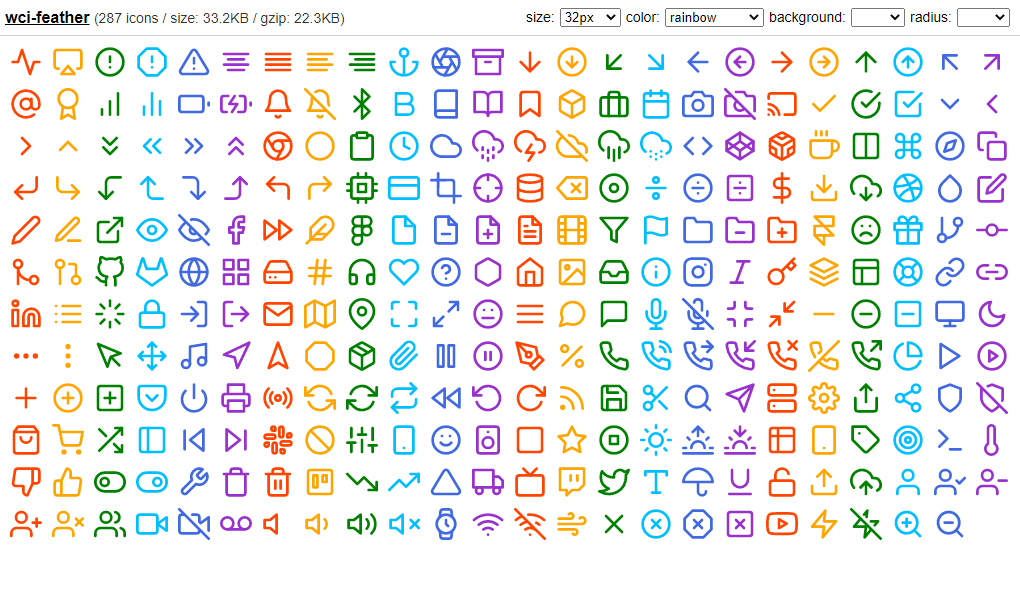
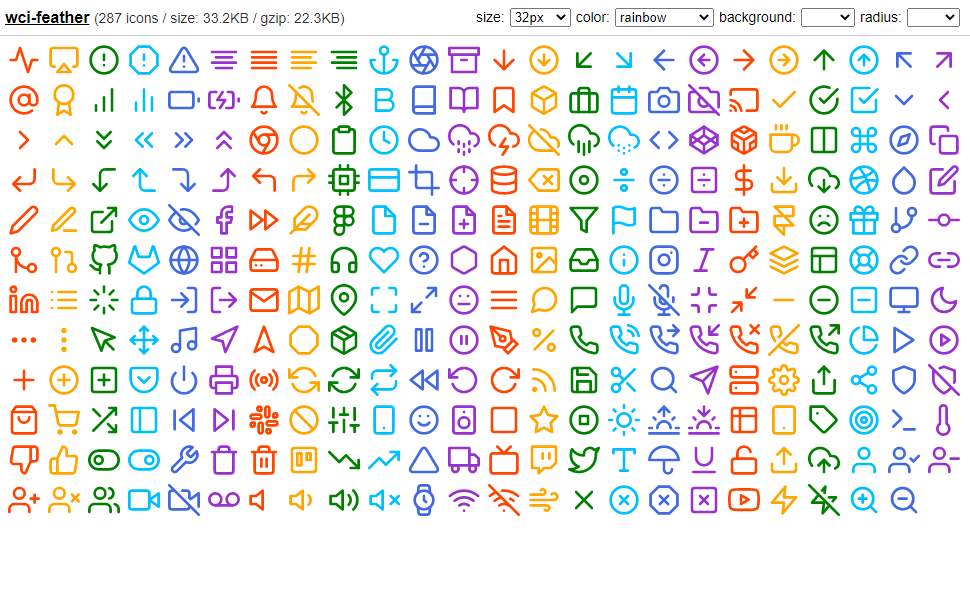
fix screenshot

Changed region(s): [[0.0, 0.0, 1.0, 0.9153]]

diff --git a/conf.cli.js b/conf.cli.js
@@ -172,8 +172,8 @@ module.exports = {
             });
             const page = await browser.newPage();
             await page.setViewportSize({
-                width: 1020,
-                height: 590
+                width: 970,
+                height: 600
             });
 
             const previewUrl = path.resolve(item.previewPath, 'index.html');

diff --git a/packages/ant/preview/index.html b/packages/ant/preview/index.html
@@ -57,7 +57,7 @@
         }
 
         .preview-container {
-            padding: 5px;
+            padding: 4px;
         }
 
         .preview-container::after {
@@ -67,7 +67,7 @@
         }
 
         .icon-item {
-            margin: 4px;
+            margin: 3px;
             float: left;
             border: 1px solid transparent;
         }

diff --git a/packages/awesome/preview/index.html b/packages/awesome/preview/index.html
@@ -57,7 +57,7 @@
         }
 
         .preview-container {
-            padding: 5px;
+            padding: 4px;
         }
 
         .preview-container::after {
@@ -67,7 +67,7 @@
         }
 
         .icon-item {
-            margin: 4px;
+            margin: 3px;
             float: left;
             border: 1px solid transparent;
         }

diff --git a/packages/blueprint/preview/index.html b/packages/blueprint/preview/index.html
@@ -57,7 +57,7 @@
         }
 
         .preview-container {
-            padding: 5px;
+            padding: 4px;
         }
 
         .preview-container::after {
@@ -67,7 +67,7 @@
         }
 
         .icon-item {
-            margin: 4px;
+            margin: 3px;
             float: left;
             border: 1px solid transparent;
         }

diff --git a/packages/bootstrap/preview/index.html b/packages/bootstrap/preview/index.html
@@ -57,7 +57,7 @@
         }
 
         .preview-container {
-            padding: 5px;
+            padding: 4px;
         }
 
         .preview-container::after {
@@ -67,7 +67,7 @@
         }
 
         .icon-item {
-            margin: 4px;
+            margin: 3px;
             float: left;
             border: 1px solid transparent;
         }

diff --git a/packages/box/preview/index.html b/packages/box/preview/index.html
@@ -57,7 +57,7 @@
         }
 
         .preview-container {
-            padding: 5px;
+            padding: 4px;
         }
 
         .preview-container::after {
@@ -67,7 +67,7 @@
         }
 
         .icon-item {
-            margin: 4px;
+            margin: 3px;
             float: left;
             border: 1px solid transparent;
         }

diff --git a/packages/carbon/preview/index.html b/packages/carbon/preview/index.html
@@ -57,7 +57,7 @@
         }
 
         .preview-container {
-            padding: 5px;
+            padding: 4px;
         }
 
         .preview-container::after {
@@ -67,7 +67,7 @@
         }
 
         .icon-item {
-            margin: 4px;
+            margin: 3px;
             float: left;
             border: 1px solid transparent;
         }

diff --git a/packages/coreui/preview/index.html b/packages/coreui/preview/index.html
@@ -57,7 +57,7 @@
         }
 
         .preview-container {
-            padding: 5px;
+            padding: 4px;
         }
 
         .preview-container::after {
@@ -67,7 +67,7 @@
         }
 
         .icon-item {
-            margin: 4px;
+            margin: 3px;
             float: left;
             border: 1px solid transparent;
         }

diff --git a/packages/cssgg/preview/index.html b/packages/cssgg/preview/index.html
@@ -57,7 +57,7 @@
         }
 
         .preview-container {
-            padding: 5px;
+            padding: 4px;
         }
 
         .preview-container::after {
@@ -67,7 +67,7 @@
         }
 
         .icon-item {
-            margin: 4px;
+            margin: 3px;
             float: left;
             border: 1px solid transparent;
         }

diff --git a/packages/eva/preview/index.html b/packages/eva/preview/index.html
@@ -57,7 +57,7 @@
         }
 
         .preview-container {
-            padding: 5px;
+            padding: 4px;
         }
 
         .preview-container::after {
@@ -67,7 +67,7 @@
         }
 
         .icon-item {
-            margin: 4px;
+            margin: 3px;
             float: left;
             border: 1px solid transparent;
         }

diff --git a/packages/feather/preview/index.html b/packages/feather/preview/index.html
@@ -57,7 +57,7 @@
         }
 
         .preview-container {
-            padding: 5px;
+            padding: 4px;
         }
 
         .preview-container::after {
@@ -67,7 +67,7 @@
         }
 
         .icon-item {
-            margin: 4px;
+            margin: 3px;
             float: left;
             border: 1px solid transparent;
         }

diff --git a/packages/flag/preview/index.html b/packages/flag/preview/index.html
@@ -57,7 +57,7 @@
         }
 
         .preview-container {
-            padding: 5px;
+            padding: 4px;
         }
 
         .preview-container::after {
@@ -67,7 +67,7 @@
         }
 
         .icon-item {
-            margin: 4px;
+            margin: 3px;
             float: left;
             border: 1px solid transparent;
         }
